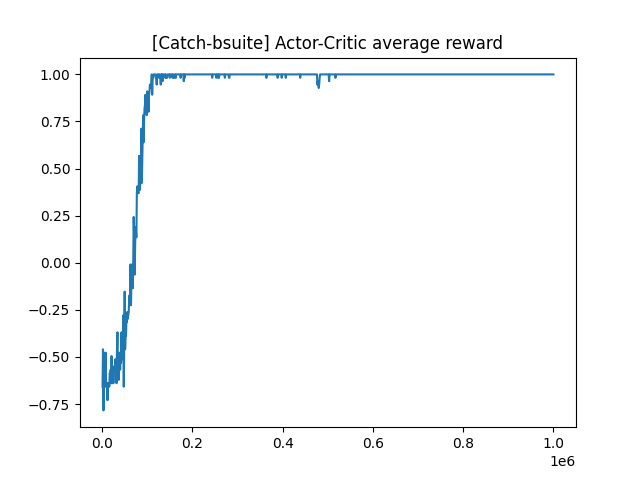
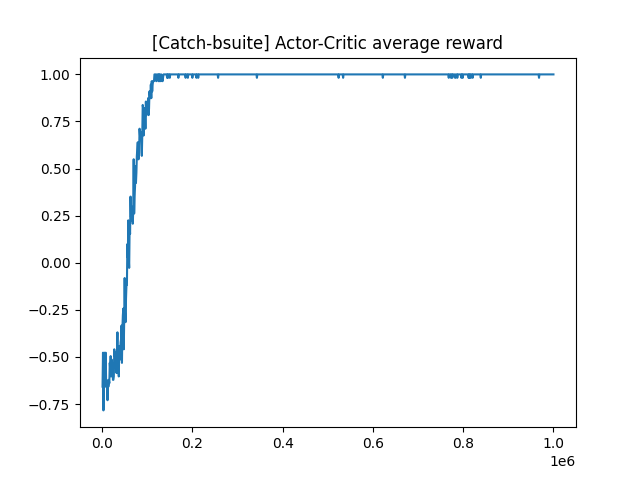
adjust hyperparameters

diff --git a/algos/actor_critic.py b/algos/actor_critic.py
@@ -22,9 +22,9 @@ params = {
         "batch_count": 25,
         "rollout_len": 2000,
         "discount_rate": 0.99,
-        "actor_learning_rate": 0.002,
+        "actor_learning_rate": 0.0025,
         "critic_learning_rate": 0.004,
-        "critic_updates": 20,
+        "critic_updates": 25,
     },
     "catch": {
         "actor_sizes": (30, 15),
@@ -33,9 +33,9 @@ params = {
         "batch_count": 50,
         "rollout_len": 1000,
         "discount_rate": 0.99,
-        "actor_learning_rate": 0.002,
+        "actor_learning_rate": 0.0025,
         "critic_learning_rate": 0.004,
-        "critic_updates": 20,
+        "critic_updates": 25,
     },
 }
 
